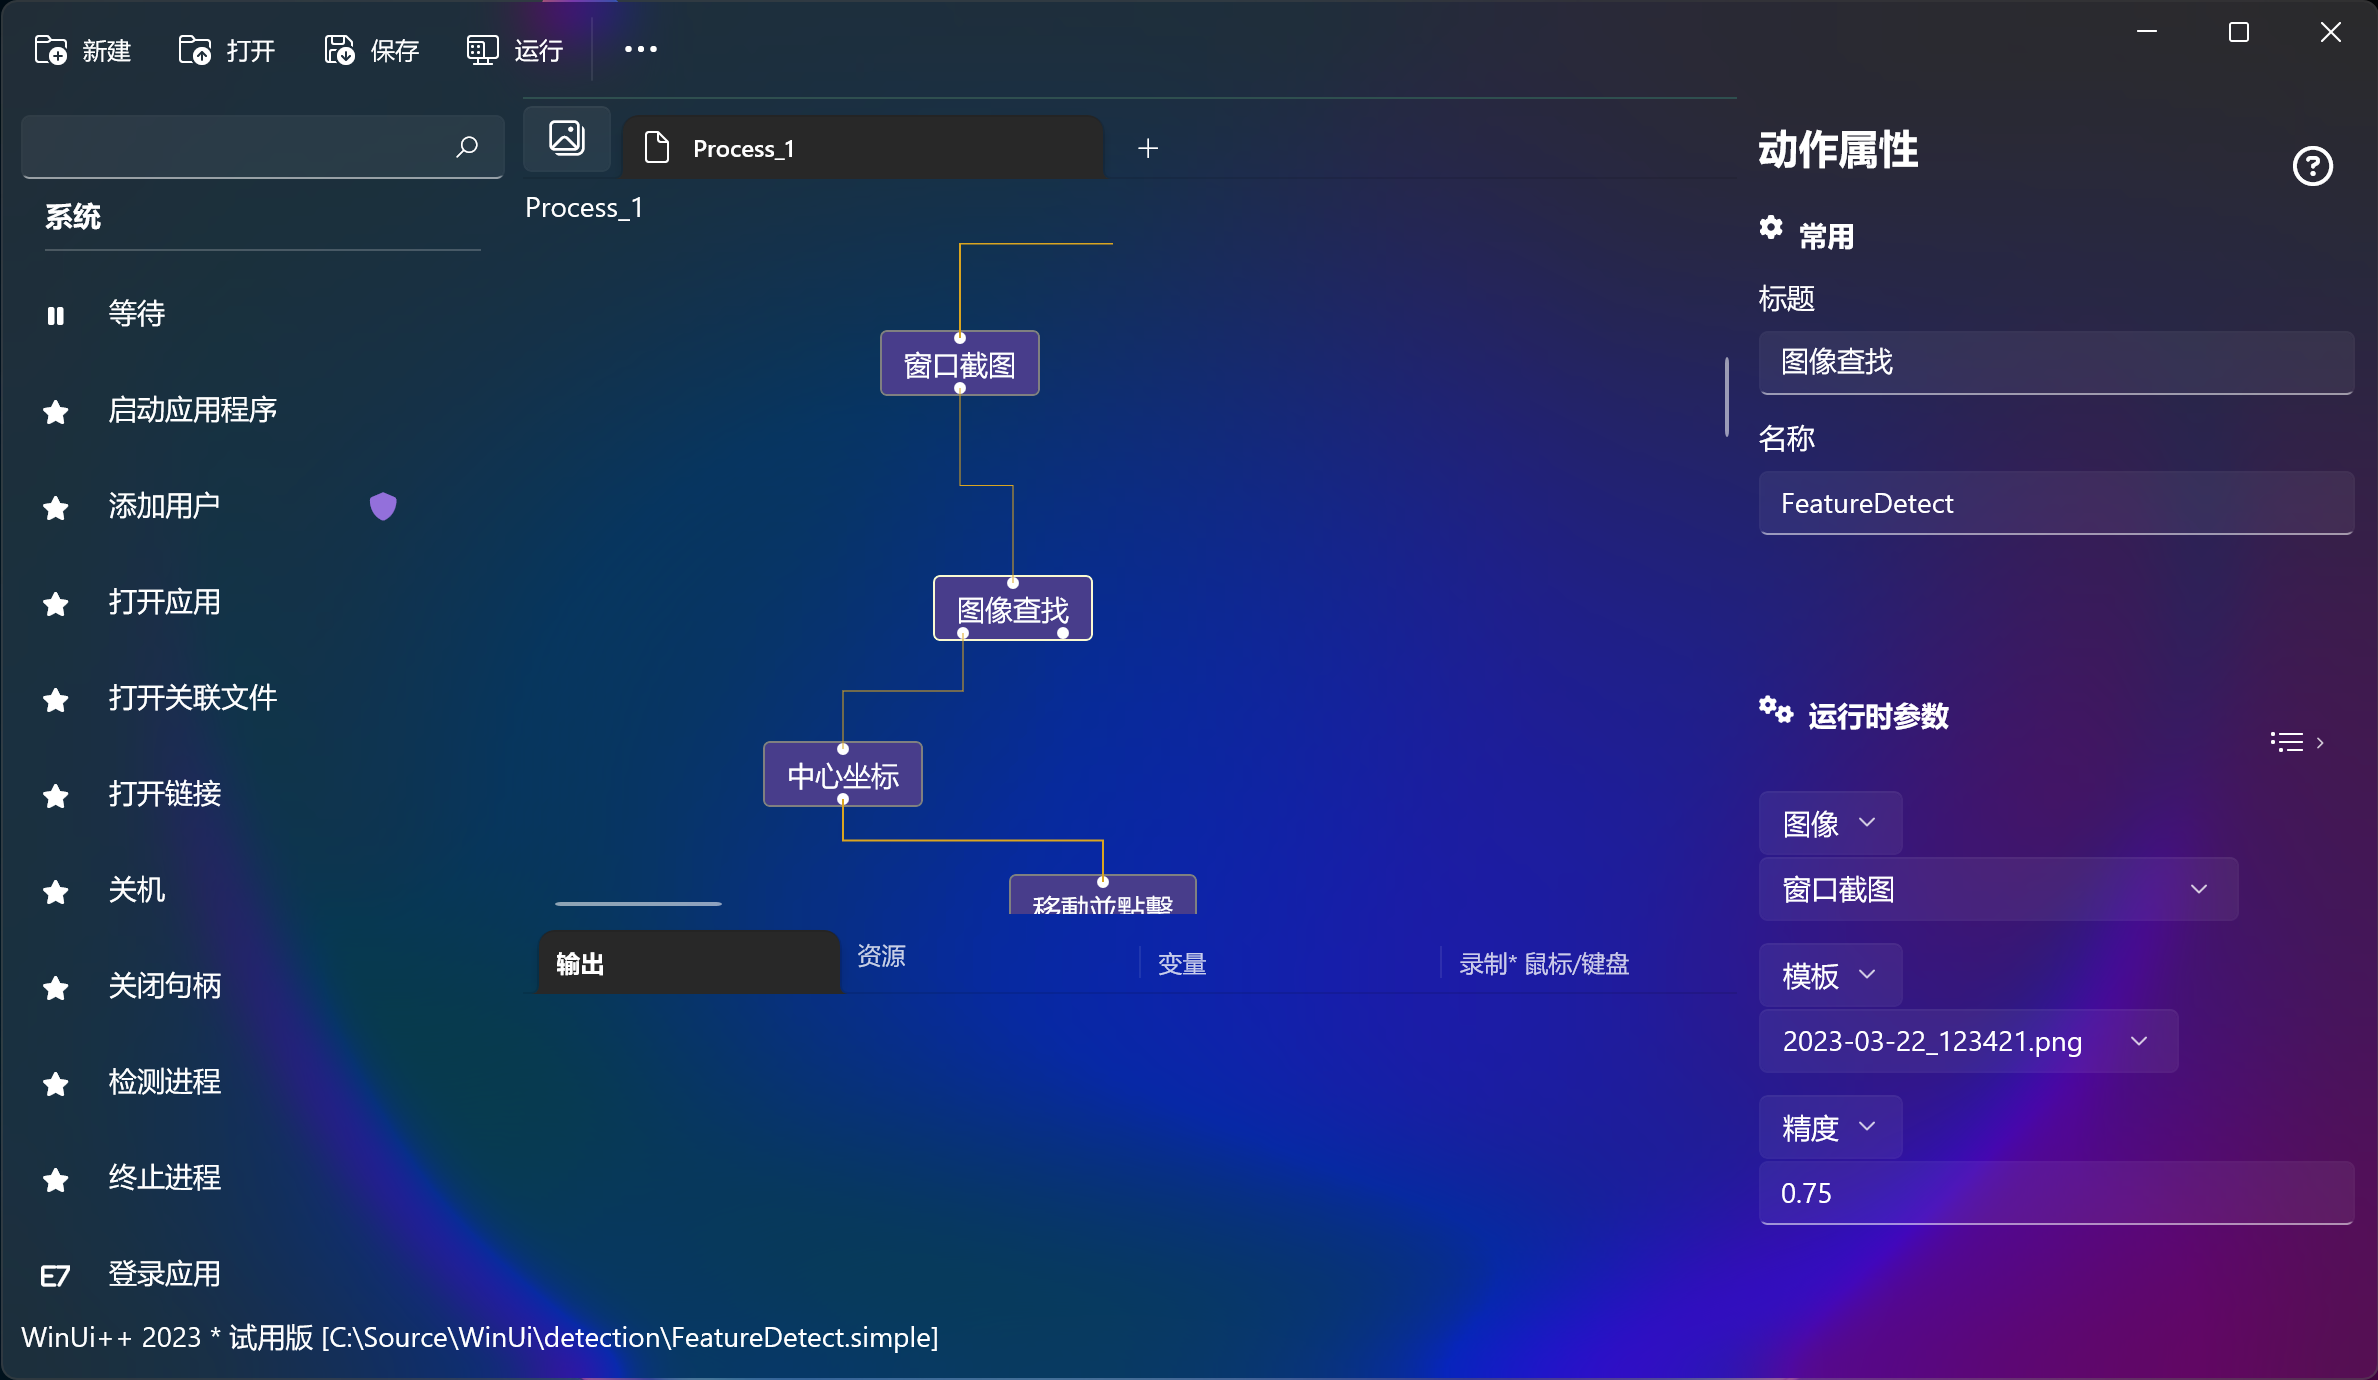
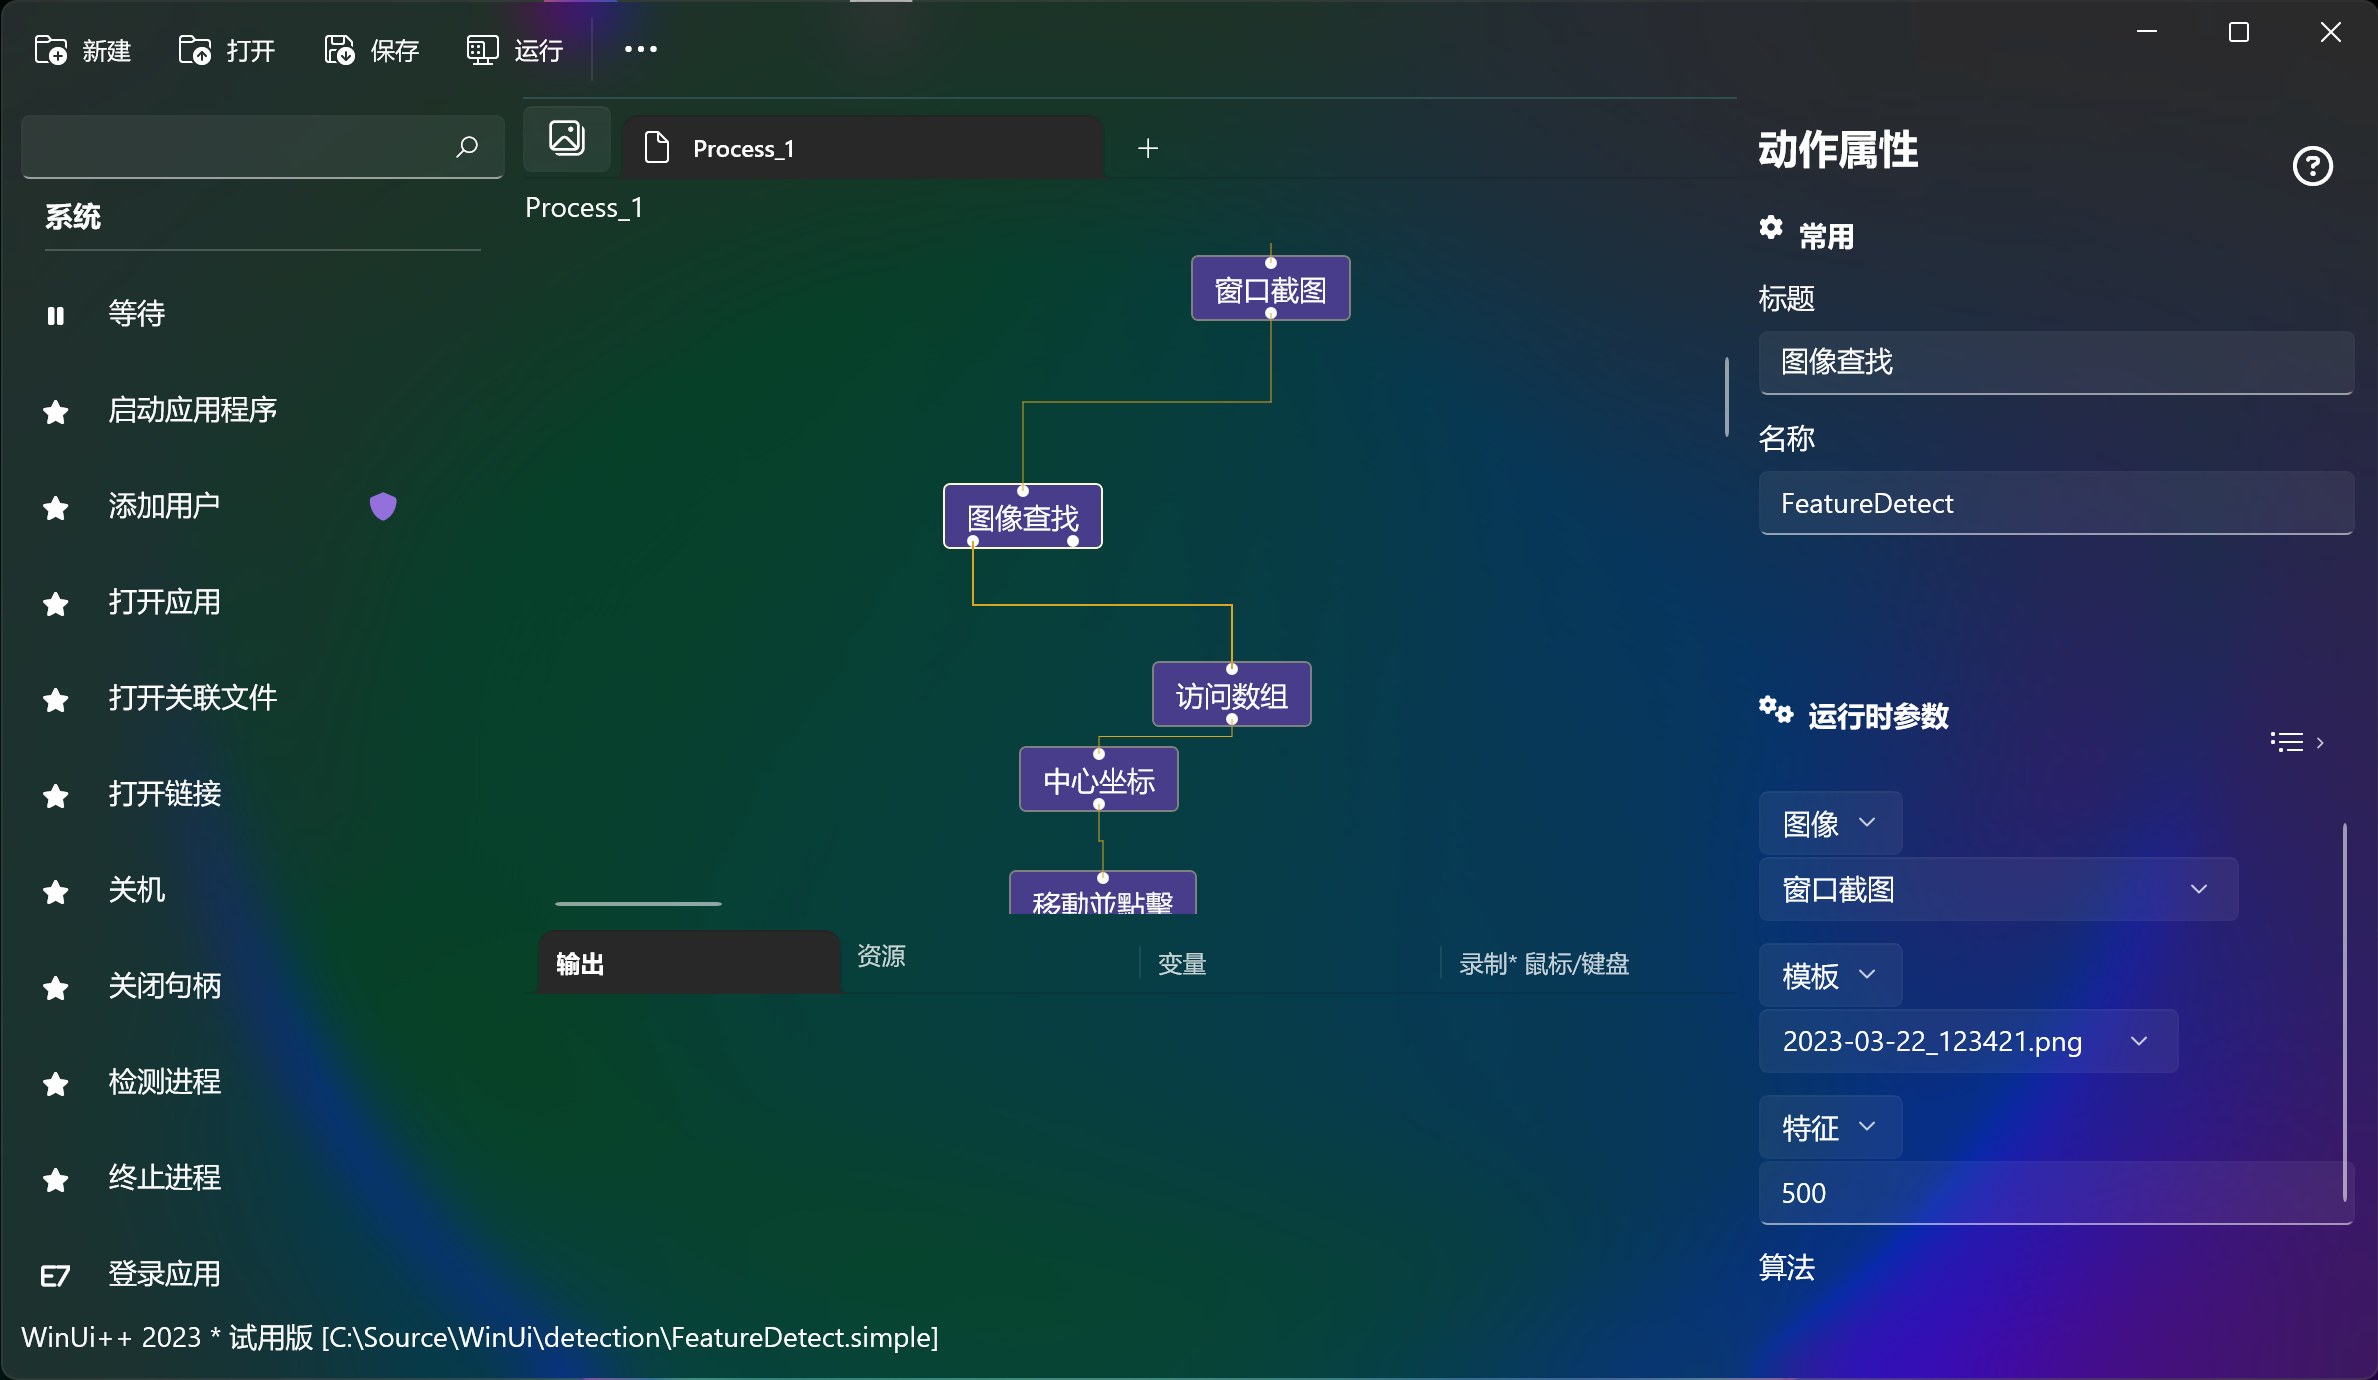
update

diff --git a/docx/actions/detection/FeatureDetect.md b/docx/actions/detection/FeatureDetect.md
@@ -1,5 +1,5 @@
 # 特征匹配 
-该动作通过特征匹配，在一张图像当中查找模板图像。
+特征是图像中信息特别丰富或有趣的独特区域。这些可能包括边缘、角落或斑点（基于颜色强度的区域）。该动作通过特征匹配，在一张图像当中查找模板图像。
 
 ![FeatureDetect](./images/06.png ':size=90%')
 
@@ -13,16 +13,16 @@
 
 
 * 图像
-
+>   单通道图像，如果为非单通道图像，则会转换成灰度图像。
 * 模板
->   要查找的图像 
-* 精度
-> 根据该精度进行特征过滤，低于该值的认为最佳匹配, 匹配越好，该值越小。默认值：0.75
-
-
+>   要查找的图像，单通道图像，如果为非单通道图像，则会转换成灰度图像。
+* 特征
+> 获取的最大特征航空数量。仅适用于 *ORB* 和 *SIFT* 算法，默认值：500
+* 算法
+> 参考 [FeatureAlgorithm](../enums/FeatureAlgorithm.md)
 ## 输出
 
-> 检测到的位置区域，参考：[RotatedRect](../types/RotatedRect.md)
+> 检测到的位置区域，参考：[RotatedRects](../types/RotatedRect.md)
 
 
 ## 脚本调用
@@ -35,3 +35,6 @@ import simple;
 ## 资源
 
 例子：https://github.com/shelllet/WinUi/blob/main/detection/FeatureDetect.simple
+
+
+!> 该动作会先将源图像和模板图像转换成灰度图像，再进行匹配。

diff --git a/docx/actions/detection/MatchShapes.md b/docx/actions/detection/MatchShapes.md
@@ -1,8 +1,8 @@
 # 形状匹配 
 该动作可以在一张图像上查找一个特定的形状。即使图像旋转，绽放也不会对该结果产生太大影响。
 
-* 为了获得更高的准确性，请使用二值图像
-* 要找到的对象应该是白色的，背景应该是黑色的。
+* 为了获得更高的准确性，请使用二值图像，因此，在查找形状之前，请应用阈值或边缘检测进行预处理。
+* 要找到的形状应该是白色的，背景应该是黑色的。
 
 ![MatchShapes](./images/05.png ':size=90%')
 
@@ -12,7 +12,7 @@
 
 ## 运行参数
 
-* 源图像
+* 图像
 > 单通道图像，通常是二值化后的图像，从该图像上查找相应的目标形状。如果非单通道图像，则默认转换为灰度图像。
 * 目标
 >  单通道图像，包含目标形状，通常是一张具有特定形状，二值化化后的图像。如果非单通道图像，则默认转换为灰度图像。
@@ -24,7 +24,7 @@
 > 根据相似性进行过滤。越低，表示匹配越好。*0*：表示完全匹配，低于该值的形状，会被认为是匹配的形状。
 ## 输出
 
-> 所有匹配到的形状的位置，可以参考[DetectionResult](./types/DetectionResult.md)
+> 所有匹配到的形状的位置，可以参考[DetectionResults](./types/DetectionResult.md)
 
 
 ## 脚本调用

diff --git a/docx/_sidebar.md b/docx/_sidebar.md
@@ -33,6 +33,7 @@
       - [异步启动](./actions/async/WorkBegin.md)
       - [状态切换](./actions/async/WorkReset.md)
       - [等待事件](./actions/async/WhenEvent.md)
+      - [异步等待](./actions/async/WorkWait.md)
     - 文件
       - [读取文件](./actions/filesystem/FileRead.md)
       - [文件写入](./actions/filesystem/FileWrite.md)
@@ -90,7 +91,7 @@
     - 图像检测
       - [直线检测](./actions/detection/LineDetection.md)
       - [椭圆检测](./actions/detection/EllipseDetection.md)
-      - [斑点查找](./actions/detection/BlobDetect.md)
+      - [斑点检测](./actions/detection/BlobDetect.md)
       - [形状查找](./actions/detection/ShapeDetection.md)
       - [形状匹配](./actions/detection/MatchShapes.md)
       - [特征匹配](./actions/detection/FeatureDetect.md)
@@ -276,4 +277,5 @@
     - [MouseMessage](./enums/MouseMessage.md)
     - [MorphologicalOperations](./enums/MorphologicalOperations.md)
     - [ContourApproximationModes](./enums/ContourApproximationModes.md)
+    - [FeatureAlgorithm](./enums/FeatureAlgorithm.md)
   - [Changelog](./CHANGELOG.md)

diff --git a/docx/actions/detection/BlobDetect.md b/docx/actions/detection/BlobDetect.md
@@ -1,6 +1,9 @@
 # 斑点检测
 *斑点* 是图像中与周围区域在属性（例如亮度、颜色）上不同的区域， 也可以称为 *Blob* ，该动作对图像中的 *斑点* ，按照指定的条件进行筛选过滤。
 
+* 查找圆或者椭圆就是从黑色背景中查找白色圆或者椭圆边缘。所以请记住，要找到的圆或者椭圆应该是白色的，背景应该是黑色的。
+
+
 ![BlobDetect](./images/03.png ':size=90%')
 
 ## 子流程
@@ -10,7 +13,7 @@
 ## 运行参数
 
 * 图像
->  单通道图像，如果为非单通道图像，则会转换成灰度图像。
+>  源图像。
 * 阈值
 >  通过使用从最小阈值开始对源图像进行阈值处理，将源图像转换为多个二值图像。这些阈值按 *步长* 递增， 直到最大阈值。
 * 步长
@@ -28,7 +31,7 @@
 
 ## 输出
 
->   检测到 *斑点* 的矩形框，参考： [RotatedRect](./types/RotatedRect.md)。
+>   检测到 *斑点* 的矩形框，参考： [RotatedRects](./types/RotatedRect.md)。
 
 
 ## 脚本调用

diff --git a/docx/actions/detection/ShapeDetection.md b/docx/actions/detection/ShapeDetection.md
@@ -1,7 +1,7 @@
 # 形状查找
 该动作可以查找图像上的基本形状，如：三角形、四边形、正方形。
 
-* 为了获得更高的准确性，请使用二值图像。因此，在查找形状之前，请应用阈值或精明的边缘检测。
+* 为了获得更高的准确性，请使用二值图像。因此，在查找形状之前，请应用阈值或边缘检测进行预处理。
 * 查找形状就像从黑色背景中查找白色物体。所以请记住，要找到的形状应该是白色的，背景应该是黑色的。
 
 ![ShapeDetection](./images/04.png ':size=90%')
@@ -18,6 +18,8 @@
 * 逼近
 > 指定近似精度的参数。这是原始形状与其近似形状之间的最大距离。
 
+* 形状
+> 要查找的形状。
 
 ## 输出
 

diff --git a/docx/CHANGELOG.md b/docx/CHANGELOG.md
@@ -1,10 +1,10 @@
 # [0.29](https://github.com/shelllet/winui/compare/main...dev) (2023-xx-xx)
 ### Changed：
-1. 优化图像检测相关动作。
-2. *鼠标监听* 支持监听鼠标按下。
-3. 模板匹配，只能返回第一个匹配到的位置。
-4. 增加 *颜色填充* 动作。
-5. 增加 *形状查找* 动作，可以查找 *长方形*、 *正方形*、 *三角形*。
+
+1. *鼠标监听* 支持监听鼠标按下。
+2. 图像查找（特征匹配）返回匹配的多个图像。
+3. 增加 *颜色填充* 动作。
+4. 增加 *形状查找* 动作，可以查找 *长方形*、 *正方形*、 *三角形*。
 
 ## [0.28](https://github.com/shelllet/winui/compare/main...dev) (2023-09-23)
 ### Changed：

diff --git a/docx/actions/detection/FindContours.md b/docx/actions/detection/FindContours.md
@@ -1,7 +1,7 @@
 # 查找轮廓 
 轮廓可以简单地理解为连接所有连续点（沿着边界）的曲线，具有相同的颜色或强度。轮廓是形状分析以及物体检测和识别的有用工具。
 
-* 为了获得更高的准确性，请使用二值图像。因此，在查找轮廓之前，请应用阈值或精明的边缘检测。
+* 为了获得更高的准确性，请使用二值图像。因此，在查找轮廓之前，请应用阈值或边缘检测进行预处理。
 * 查找轮廓就像从黑色背景中查找白色物体。所以请记住，要找到的对象应该是白色的，背景应该是黑色的。
 
 ![FindContours](./images/08.png ':size=90%')

diff --git a/docx/enums/FeatureAlgorithm.md b/docx/enums/FeatureAlgorithm.md
@@ -1,0 +1,12 @@
+# FeatureAlgorithm
+
+* SIFT
+> 用于检测和描述图像中的局部特征。它对图像缩放、方向和仿射失真具有鲁棒性。在不同尺度的图像中 *SIFT* 都比 *SURF* 要好。
+* SURF
+> *SURF* 在旋转不变性、模糊和扭曲变换方面优于 *SIFT*。
+* BRISK
+> 比*SURF* 快的一种检测方法。 
+* ORB
+> 计算速度快，并且对光照和旋转变化具有鲁棒性，*ORB* 比 *SURF* 和 *SIFT* 快得多，而且性能也比 *SURF* 更好。
+* AKAZE
+> 在过滤匹配项并删除异常值之后，与 *ORB* 相比，*AKAZE* 呈现出更多数量的正确匹配项。计算速度比 *ORB* 慢。

diff --git a/docx/actions/detection/MatchTemplate.md b/docx/actions/detection/MatchTemplate.md
@@ -13,16 +13,16 @@
 ## 运行参数
 
 * 图像
+> 源图像，待查找图像，可以是彩色图像。
 * 模板
->   要查找的图像
+>   要查找的图像，可以是彩色图像，不能比源图像大。
 * 精度
 >   根据相似度进行过滤, 低于该值的认为不匹配。 匹配越好，该值越大。**1** 表示完美匹配。
 
 ## 输出
 
-> 匹配到的位置，参考：[DetectionResult](./types/DetectionResult.md)
+> 匹配到的位置，参考：[DetectionResults](./types/DetectionResult.md)
     
-
 
 ## 脚本调用
 

diff --git a/docx/actions/detection/EllipseDetection.md b/docx/actions/detection/EllipseDetection.md
@@ -1,5 +1,9 @@
 # 椭圆检测 
-检测图像中的圆或者椭圆。
+检测图像中的圆或者椭圆，线宽通常是 *1*像素。
+
+* 为了获得更高的准确性，请使用二值图像。因此，在查找圆或者椭圆之前，请应用阈值或边缘检测进行预处理。
+* 查找圆或者椭圆就是从黑色背景中查找白色圆或者椭圆边缘。所以请记住，要找到的圆或者椭圆应该是白色的，背景应该是黑色的。
+
 
 ![EllipseDetection](./images/02.png ':size=90%')
 

diff --git a/docx/actions/detection/LineDetection.md b/docx/actions/detection/LineDetection.md
@@ -1,5 +1,9 @@
 # 直线检测
-检测图像中的直线。
+检测图像中的直线，直线的线宽通常是 *1* 像素。
+
+* 为了获得更高的准确性，请使用二值图像。因此，在查找直线之前，请应用阈值或边缘检测进行预处理。
+* 查找直线就是从黑色背景中查找白色直线。所以请记住，要找到的直线应该是白色的，背景应该是黑色的。
+
 
 ![LineDetection](./images/01.png ':size=90%')
 

diff --git a/docx/types/RotatedRect.md b/docx/types/RotatedRect.md
@@ -7,3 +7,7 @@ class `RotatedRect`, 表示一个带角度的旋转矩形。
 1. center ：[Point](../types/Point.md)
 
    中心坐标
+
+# RotatedRect
+
+class `RotatedRects`
